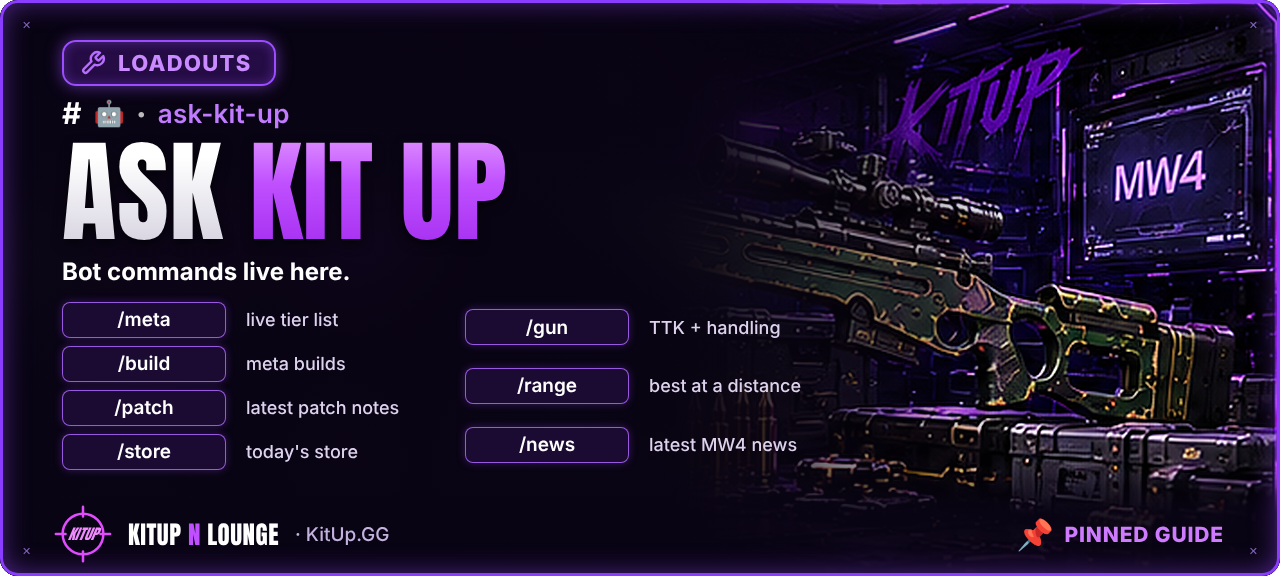
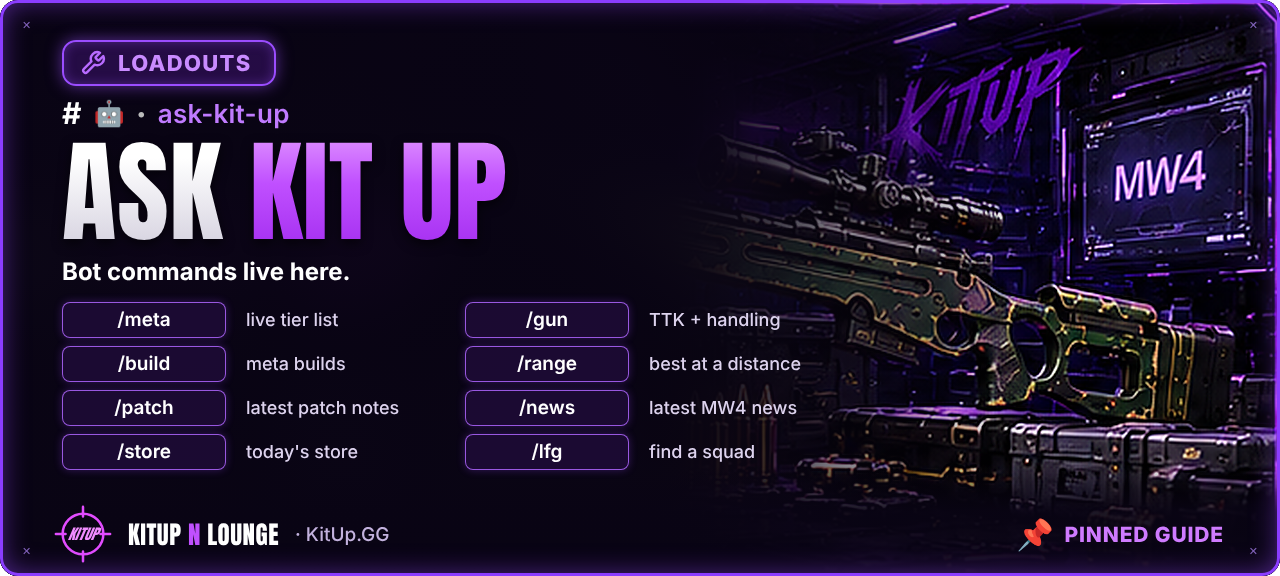
Squad finder: /link Activision ID and /lfg with Join/Leave/Close for Xbox, PlayStation and PC
- /link, /unlink, /profile store each player's Activision ID in a private #kitup-data channel
- /lfg posts a DMZ, Multiplayer or Warzone squad; anyone linked can join, any platform
- register_commands.py + a Discord commands workflow register the new slash commands
- offline test (node discord-bot/test_squad_finder.mjs), README section
- ask-kit-up, lfg-dmz and lfg-multiplayer cards mention the new commands

Claude-Session: https://claude.ai/code/session_01WE2DvZHjWNZPnd3JFYZbZm

Changed region(s): [[0.3438, 0.5, 0.625, 0.8438], [0.5, 0.5312, 0.625, 0.5938], [0.5, 0.75, 0.625, 0.8125]]

diff --git a/discord-bot/register_commands.py b/discord-bot/register_commands.py
@@ -20,6 +20,23 @@ COMMANDS = [
     {"name": "patch", "description": "Latest MW4 patch notes"},
     {"name": "news", "description": "Latest MW4 news"},
     {"name": "store", "description": "Today's MW4 store"},
+    # Squad finder: link an Activision ID once, then post or join squads on any platform.
+    {"name": "link", "description": "Link your Activision ID so you can find squads", "options": [
+        {"type": 3, "name": "platform", "description": "Where you play", "required": True,
+         "choices": [{"name": "Xbox", "value": "xbox"}, {"name": "PlayStation", "value": "ps"}, {"name": "PC", "value": "pc"}]},
+        {"type": 3, "name": "activision", "description": "Your Activision ID, like Name#1234567", "required": True,
+         "min_length": 3, "max_length": 40},
+        {"type": 3, "name": "gamertag", "description": "Xbox gamertag, PSN ID or Battle.net name (optional)",
+         "max_length": 30}]},
+    {"name": "unlink", "description": "Remove your linked Activision ID"},
+    {"name": "profile", "description": "See a player's linked Activision ID", "options": [
+        {"type": 6, "name": "user", "description": "Who to look up (you, if left empty)"}]},
+    {"name": "lfg", "description": "Find a squad for DMZ, Multiplayer or Warzone", "options": [
+        {"type": 3, "name": "mode", "description": "What you want to play", "required": True,
+         "choices": [{"name": "DMZ", "value": "dmz"}, {"name": "Multiplayer", "value": "mp"}, {"name": "Warzone", "value": "wz"}]},
+        {"type": 4, "name": "slots", "description": "Squad size (defaults: DMZ 4, Multiplayer 6, Warzone 4)",
+         "min_value": 2, "max_value": 6},
+        {"type": 3, "name": "note", "description": "Vibe, mic, goals", "max_length": 100}]},
 ]
 
 

diff --git a/discord-bot/README.md b/discord-bot/README.md
@@ -66,6 +66,17 @@ Every text channel gets its own art card, pinned so it's always one tap away. `s
 
 It skips channels that already have their card. To swap in new images after editing a card in `cards/`, run it with **Replace cards that are already pinned** ticked.
 
+## Squad finder (/link and /lfg)
+
+Players on Xbox, PlayStation and PC can find each other for DMZ, Multiplayer and Warzone.
+
+- **`/link platform activision [gamertag]`** saves a player's Activision ID once (and gives them the matching platform role). `/unlink` deletes it, `/profile [user]` shows it.
+- **`/lfg mode [slots] [note]`** posts a squad request with **Join**, **Leave** and **Close** buttons. The squad fills up to 4 (DMZ, Warzone) or 6 (Multiplayer); anyone with a linked ID can join, whatever their platform. The host or a mod can close it.
+- IDs are stored in a private **#kitup-data** channel the bot creates the first time someone runs `/link`. Only HQ can see it. Don't edit it by hand.
+- Needs `DISCORD_TOKEN` in Netlify (the same token the role buttons use).
+
+After deploying, register the new commands once: **Actions → Discord commands → Run workflow** (or `python discord-bot/register_commands.py`). To check the logic offline: `node discord-bot/test_squad_finder.mjs`.
+
 ## Finishing touches in Discord
 
 **Server banner** (needs Boost level 2): `setup_server.py` uploads `discord-bot/banner.png`, the purple Kit Up banner from the promo, as soon as the server has the perk. Run the script again after boosting.
